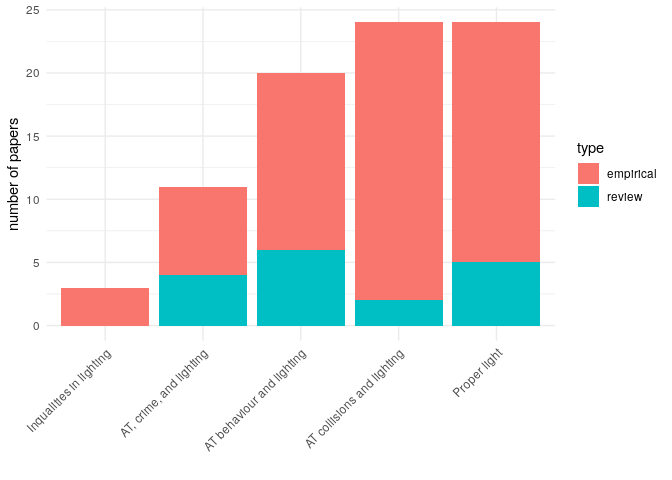
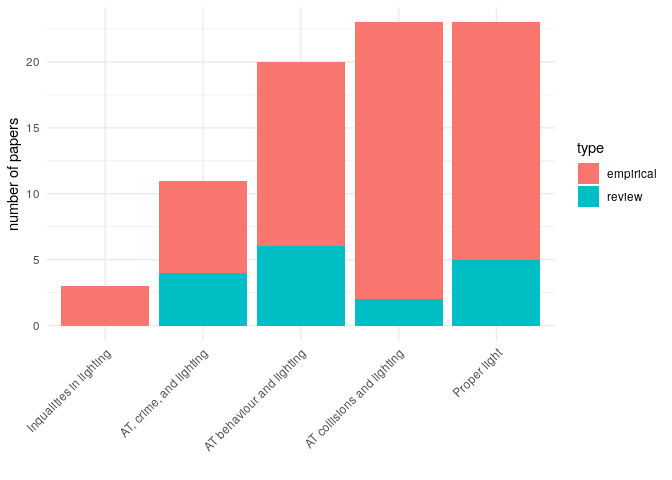
update

diff --git a/README.md b/README.md
@@ -93,7 +93,7 @@ search resulted in 1227 records. After screening abstracts and full
 text, TBC studies were selected.
 
 Second, we checked all the references from the studies selected
-(i.e. snowball technique), and after screening their abstracts and full
+(i.e. snowball technique), and after screening TBC abstracts and full
 texts, TBC additional papers were selected. In total, TBC were reviewed.
 A flow chart of included studies is shown in Figure 1.
 
@@ -104,6 +104,10 @@ A flow chart of included studies is shown in Figure 1.
 Lighting criteria for road lighting: A review 
 
 Changing Social and Built Environments to Promote Physical Activity: Recommendations from Low Income, Urban Women
+
+Macro-spatial approach for evaluating the impact of socio-economics, land use, built environment, and road facility on pedestrian safety
+
+Is white light the right light?
 
 -->
 
@@ -573,18 +577,6 @@ Fotios, S., Castleton, H.F.
 </td>
 <td style="text-align:left;">
 Lighting for cycling in the UK - A review
-</td>
-</tr>
-<tr>
-<td style="text-align:left;">
-Osama, A., Sayed, T.
-</td>
-<td style="text-align:right;">
-2017
-</td>
-<td style="text-align:left;">
-Macro-spatial approach for evaluating the impact of socio-economics,
-land use, built environment, and road facility on pedestrian safety
 </td>
 </tr>
 <tr>
@@ -1198,17 +1190,6 @@ Fotios, S., Cheal, C., Boyce, P.R.
 <td style="text-align:left;">
 Light source spectrum, brightness perception and visual performance in
 pedestrian environments: A review
-</td>
-</tr>
-<tr>
-<td style="text-align:left;">
-Fotios, S., Cheal, C.
-</td>
-<td style="text-align:right;">
-2005
-</td>
-<td style="text-align:left;">
-Is white light the right light?
 </td>
 </tr>
 <tr>
